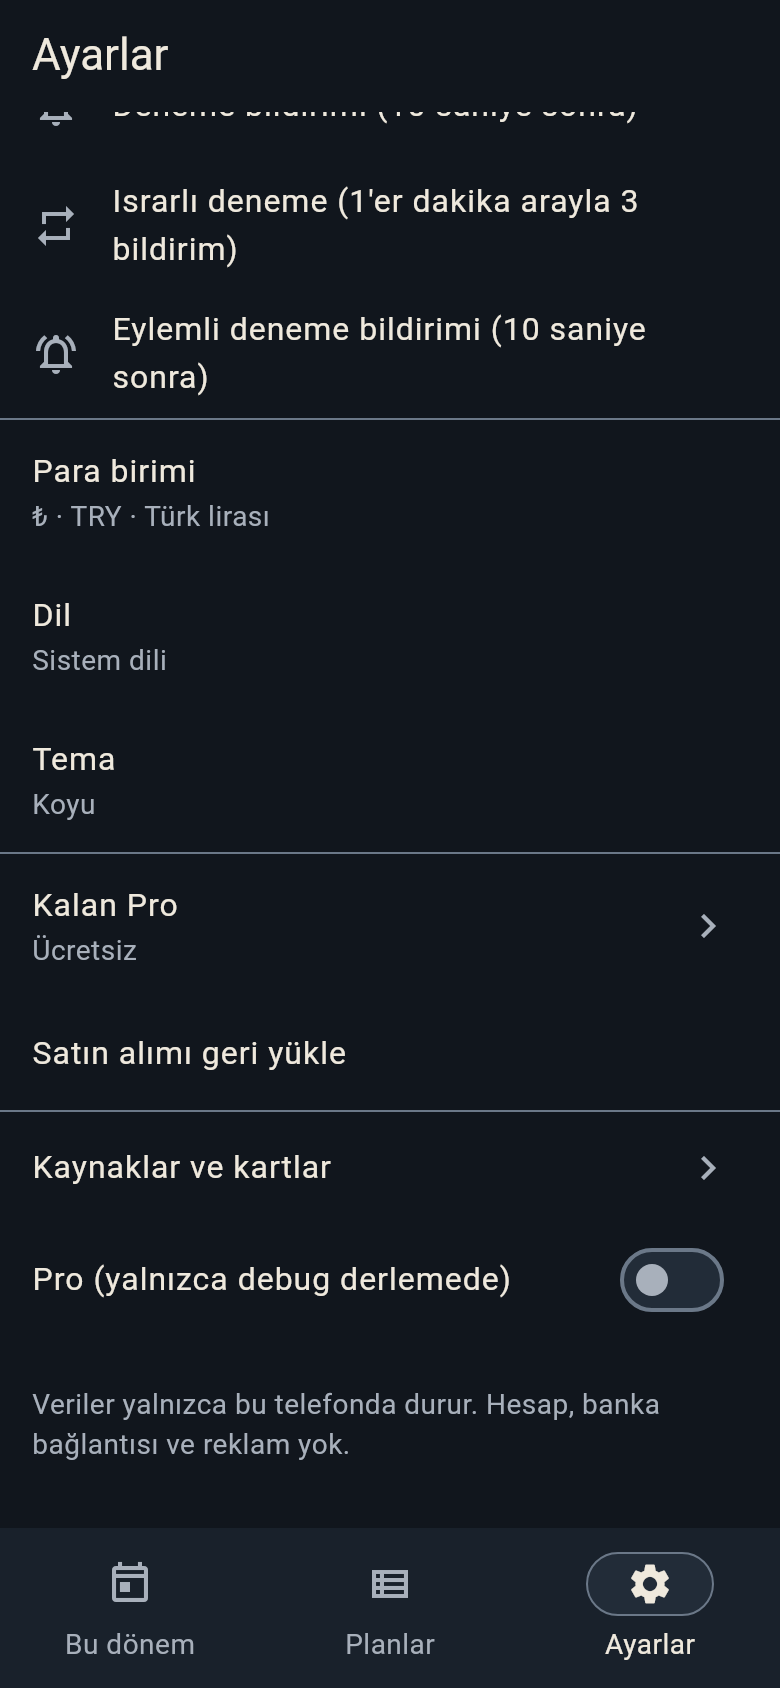
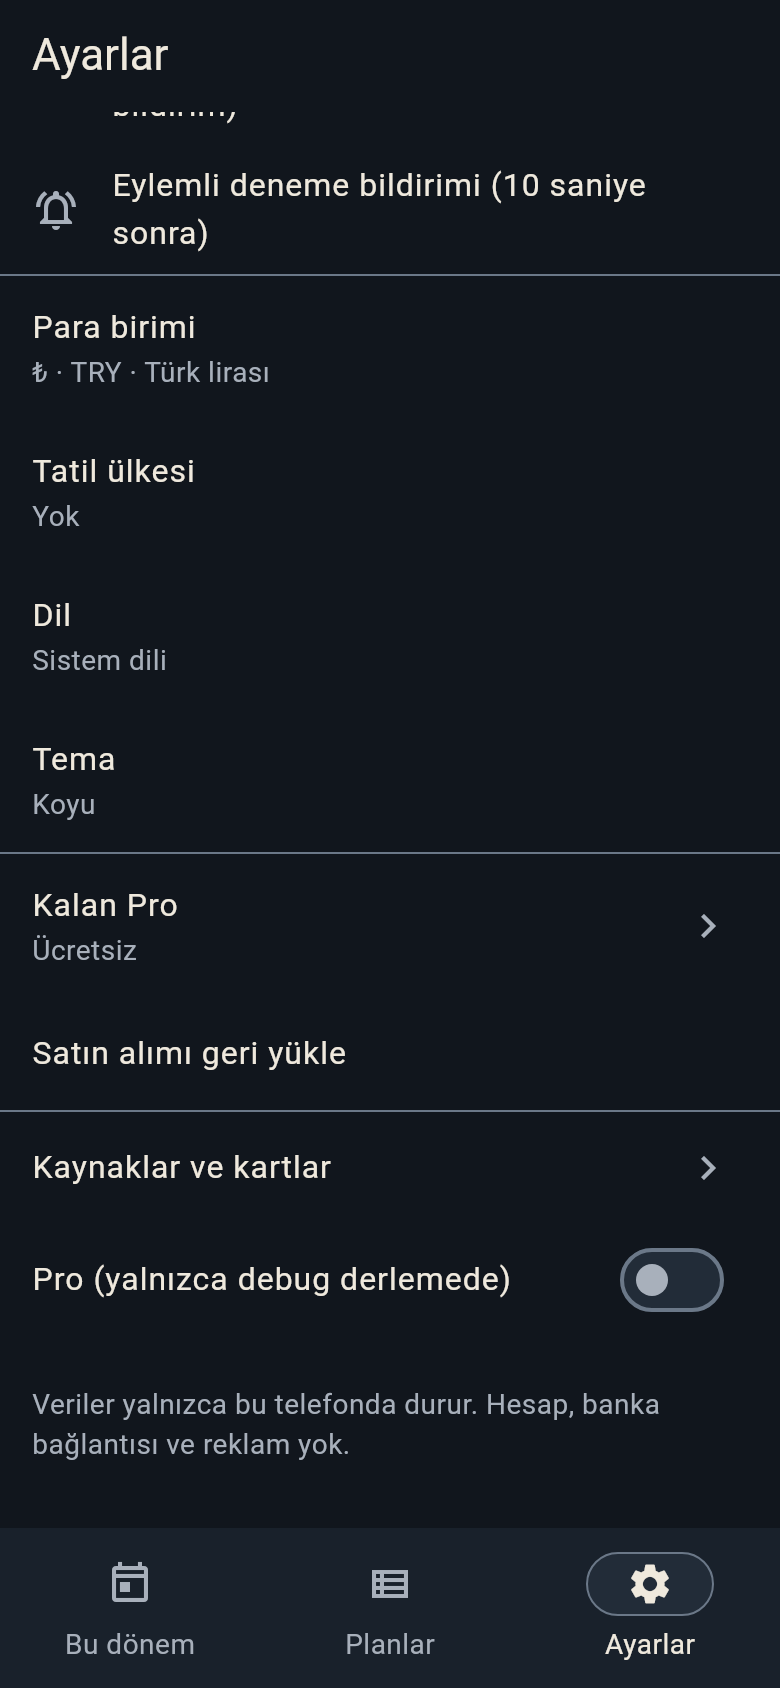
26: Goldens for the holiday switch, holiday country list and moved-date note
Claude-Session: https://claude.ai/code/session_019bHdR8MtdLvG4Cnwg1qzqk

diff --git a/test/golden/screens_golden_test.dart b/test/golden/screens_golden_test.dart
@@ -151,6 +151,31 @@ Future<void> seedUnderway(AppDatabase db) async {
   );
 }
 
+/// Public holidays (26): "today" before Hakan's 29 Oct due date.
+final holidayToday = LocalDate(2026, 10, 20);
+
+/// Hakan's card (statement 19, due 29, Türkiye) and a phone bought on
+/// 10 Oct 2026 in 3 installments, stored as before Roadmap 26.
+Future<void> seedHoliday(AppDatabase db) async {
+  await seedSettings(db, incomeMinor: 4500000, holidayCountry: 'TR');
+  final plans = PlanRepository(db);
+  final card = await SourceRepository(
+    db,
+    plans,
+  ).create(name: 'Bonus', kind: SourceKind.card, statementDay: 19, dueDay: 29);
+  await plans.saveDraft(
+    PlanCalculator.card(
+      purchaseDate: LocalDate(2026, 10, 10),
+      totalMinor: 900000,
+      count: 3,
+      terms: const CardTerms(statementDay: 19, dueDay: 29),
+    ),
+    sourceId: card,
+    origin: PlanOrigin.template,
+    title: 'Telefon',
+  );
+}
+
 Future<void> shoot(WidgetTester tester, String name) async {
   await tester.pumpAndSettle();
   await expectLater(
@@ -1771,6 +1796,55 @@ void main() {
           FocusManager.instance.primaryFocus?.unfocus();
           await scrollTo(tester, find.byKey(const ValueKey('template-note')));
           await shoot(tester, '97-add-plan-template-filled-$lang-$theme');
+        });
+      }
+
+      // Public holidays (26): Hakan's card, Türkiye, 20 Oct 2026. The
+      // stored 29 Oct moves to 30 Oct on start.
+      for (final (lang, locale, plansTab) in [
+        ('tr', const Locale('tr', 'TR'), 'Planlar'),
+        ('en', const Locale('en', 'TR'), 'Plans'),
+      ]) {
+        Future<void> openHakan(WidgetTester tester, {String? route}) async {
+          await start(
+            tester,
+            locale: locale,
+            today: holidayToday,
+            route: route,
+            seed: seedHoliday,
+          );
+          await tester.runAsync(() => Future<void>.delayed(Duration.zero));
+          await tester.pumpAndSettle();
+        }
+
+        testWidgets('card settings, public holidays, $lang', (tester) async {
+          await openHakan(tester, route: Routes.sources);
+          await tester.tap(find.text('Bonus').first);
+          await tester.pumpAndSettle();
+          await scrollTo(tester, find.byKey(const ValueKey('holiday-shift')));
+          await shoot(tester, '98-card-settings-holidays-$lang-$theme');
+        });
+
+        testWidgets('holiday country list, $lang', (tester) async {
+          await openHakan(tester, route: Routes.settings);
+          final row = find.byKey(const ValueKey('settings-holiday-country'));
+          await scrollTo(tester, row);
+          await tester.tap(row);
+          await shoot(tester, '99-holiday-country-list-$lang-$theme');
+        });
+
+        testWidgets('plan detail, moved for a holiday, $lang', (tester) async {
+          await openHakan(tester);
+          await openTab(tester, plansTab);
+          await tester.tap(find.text('Telefon'));
+          await tester.pumpAndSettle();
+          await scrollTo(
+            tester,
+            find.textContaining(
+              lang == 'tr' ? 'Resmî tatil' : 'public holiday',
+            ),
+          );
+          await shoot(tester, '100-plan-detail-holiday-$lang-$theme');
         });
       }
 
